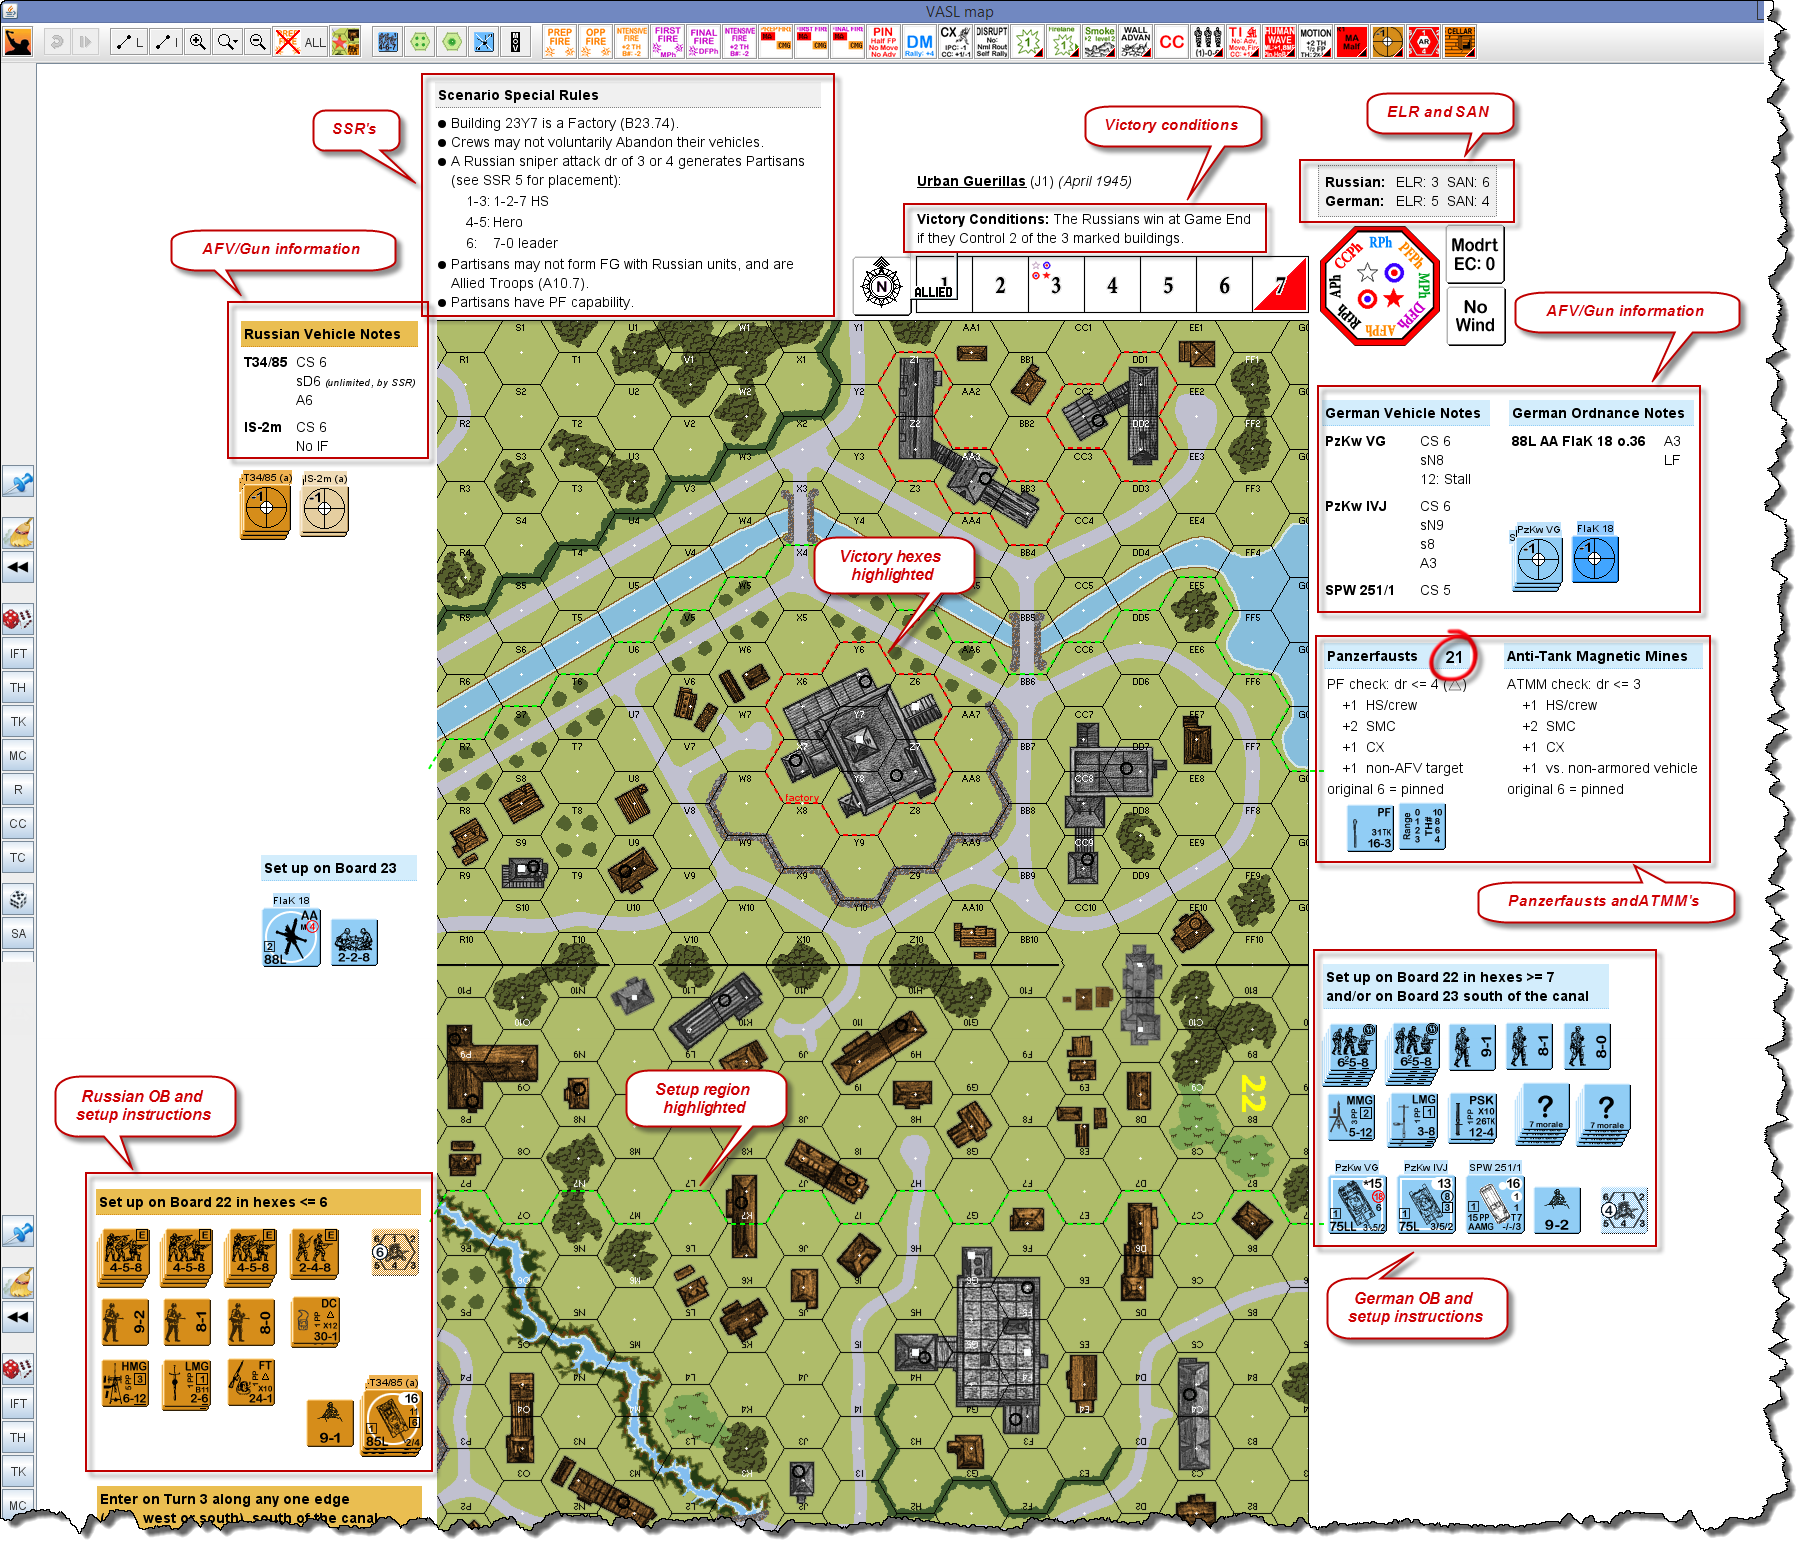
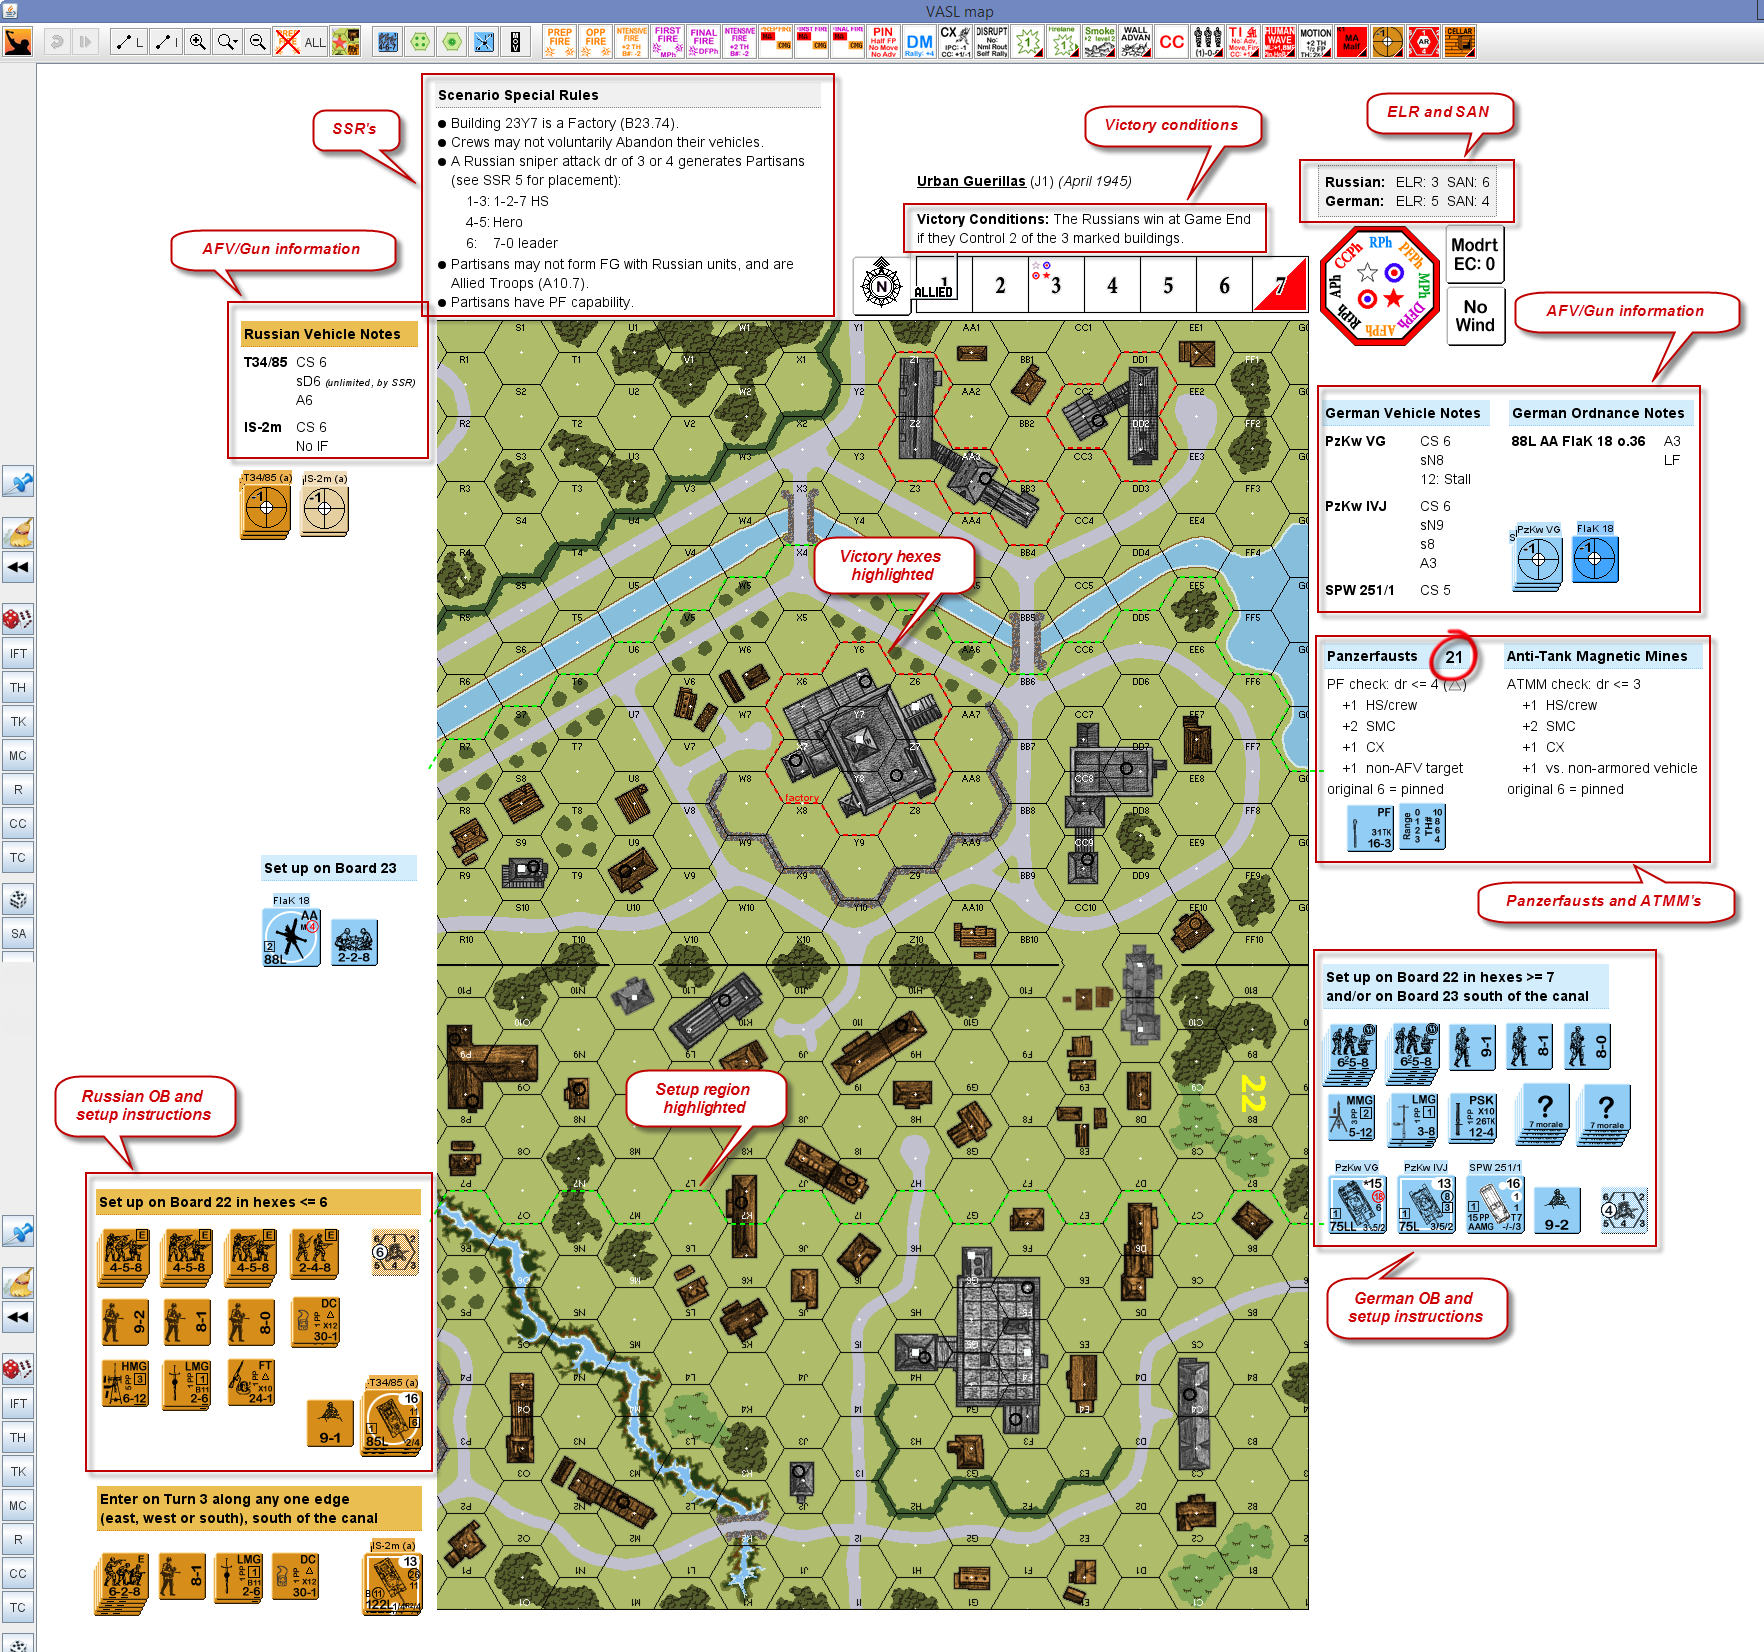
Minor tweaks to the scenario setup tutorial.

diff --git a/setup-tutorial/index.html b/setup-tutorial/index.html
@@ -182,13 +182,13 @@ This is the template I use for adding Order Of Battle setup instructions:
 These are the color codes I use for each nationality:
 <table style="margin-left:2em;">
 <tr> <td> &nbsp; <td class="header">border <td class="header">background
-<tr> <td class="header" style="background:#d3edfc;">German <td>#91cdf5 <td>#d3edfc
-<tr> <td class="header" style="background:#eabe51;">Russian <td>#d68d1a <td>#eabe51
-<tr> <td class="header" style="background:#e5f700;">American <td>#cdf000 <td>#e5f700
-<tr> <td class="header" style="background:#f6edda;">British <td>#e5cea0 <td>#f6edda
-<tr> <td class="header" style="background:#dde0e2;">Italian <td>#a6adb2 <td>#dde0e2
-<tr> <td class="header" style="background:#a2ddff;">French <td>#41a5ff <td>#a2ddff
-<tr> <td class="header" style="background:#7cf5b1;">Axis Minor <td>#1de256 <td>#7cf5b1
+<tr> <td style="border-bottom:1px dotted #91cdf5;background:#d3edfc;">German <td>#91cdf5 <td>#d3edfc
+<tr> <td style="border-bottom:1px dotted #d68d1a;background:#eabe51;">Russian <td>#d68d1a <td>#eabe51
+<tr> <td style="border-bottom:1px dotted #cdf000;background:#e5f700;">American <td>#cdf000 <td>#e5f700
+<tr> <td style="border-bottom:1px dotted #e5cea0;background:#f6edda;">British <td>#e5cea0 <td>#f6edda
+<tr> <td style="border-bottom:1px dotted #a6adb2;background:#dde0e2;">Italian <td>#a6adb2 <td>#dde0e2
+<tr> <td style="border-bottom:1px dotted #41a5ff;background:#a2ddff;">French <td>#41a5ff <td>#a2ddff
+<tr> <td style="border-bottom:1px dotted #1de256;background:#7cf5b1;">Axis Minor <td>#1de256 <td>#7cf5b1
 </table>
 
 <br clear="all">
@@ -310,6 +310,7 @@ For example:
         &lt;td valign=top&gt; CS 6 &lt;br&gt; No IF
 &lt;/table&gt;
 </code></pre>
+Note that the T34/85 can normally use its smoke dispenser only once per scenario, but <em>"Urban Guerillas"</em> has an SSR that allows unlimited use, so I've added this to the scenario setup.
 
 <br clear="all">
 
